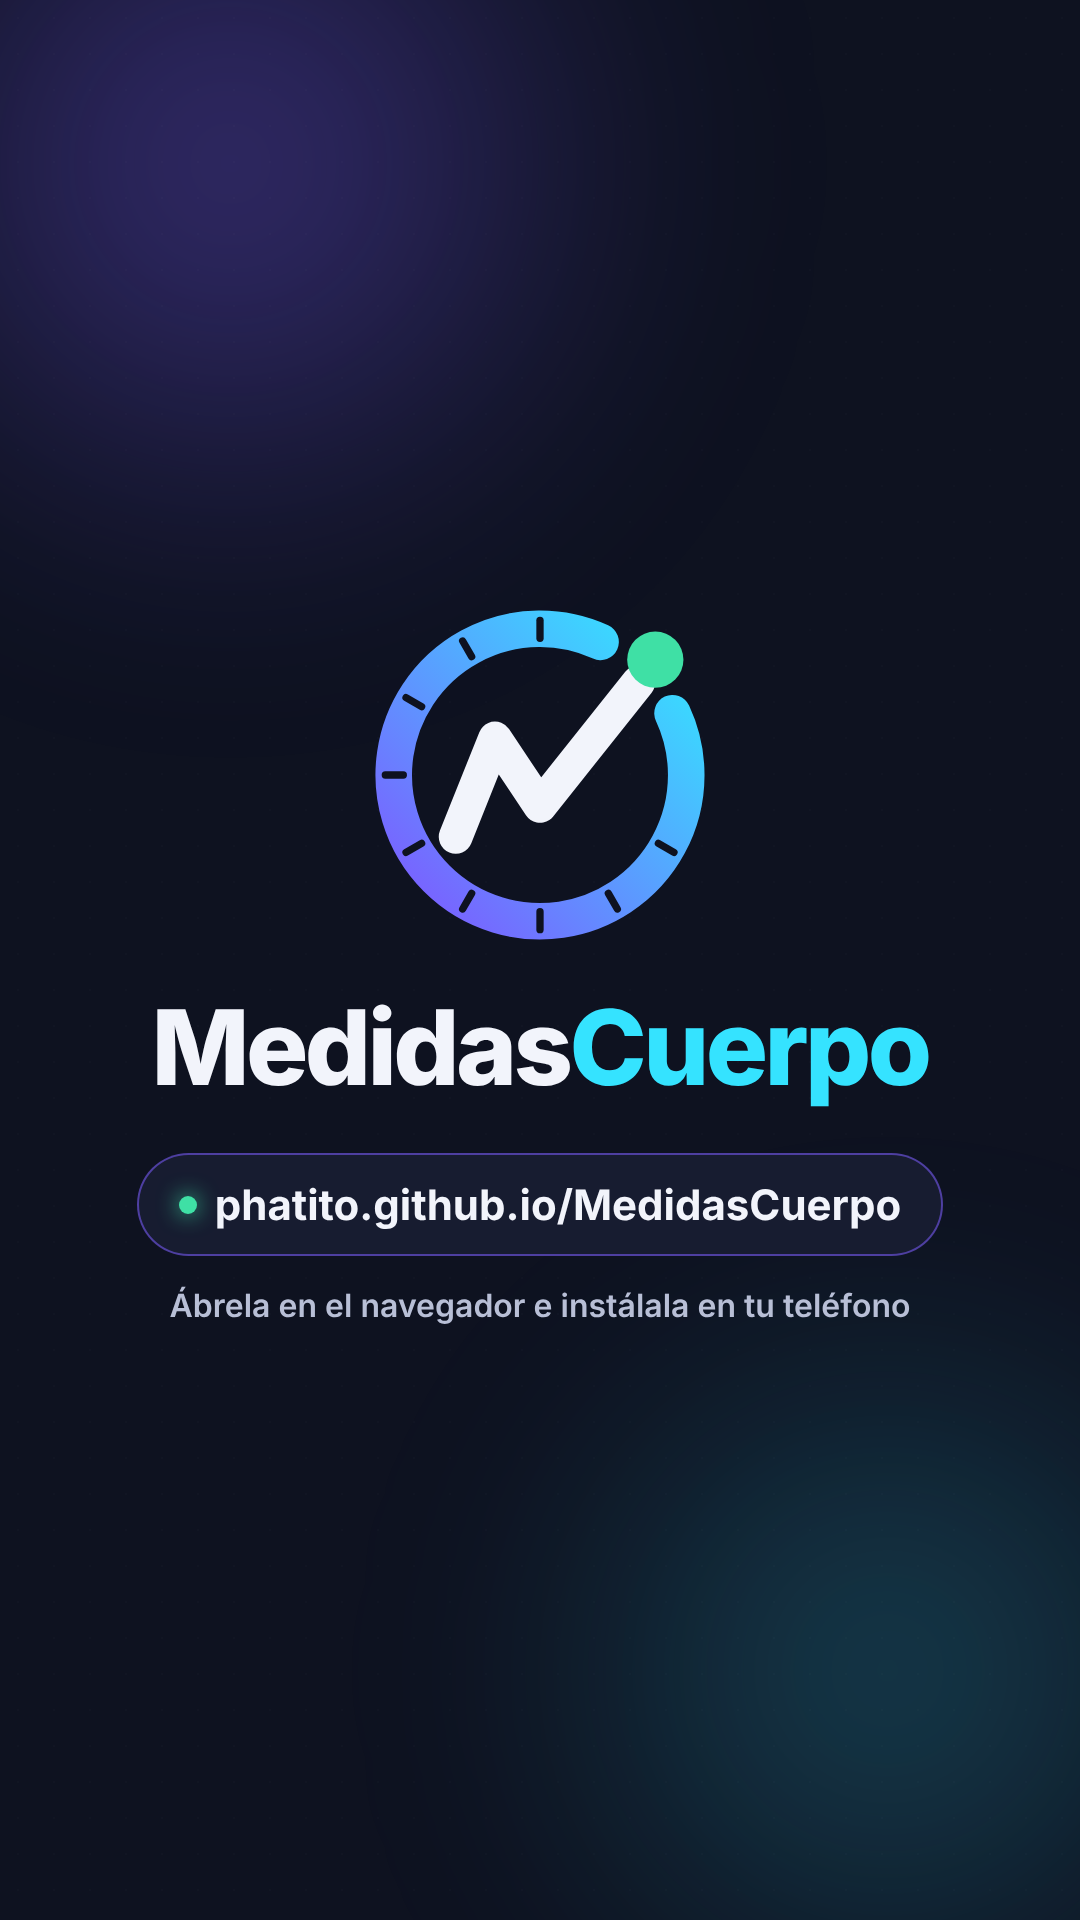
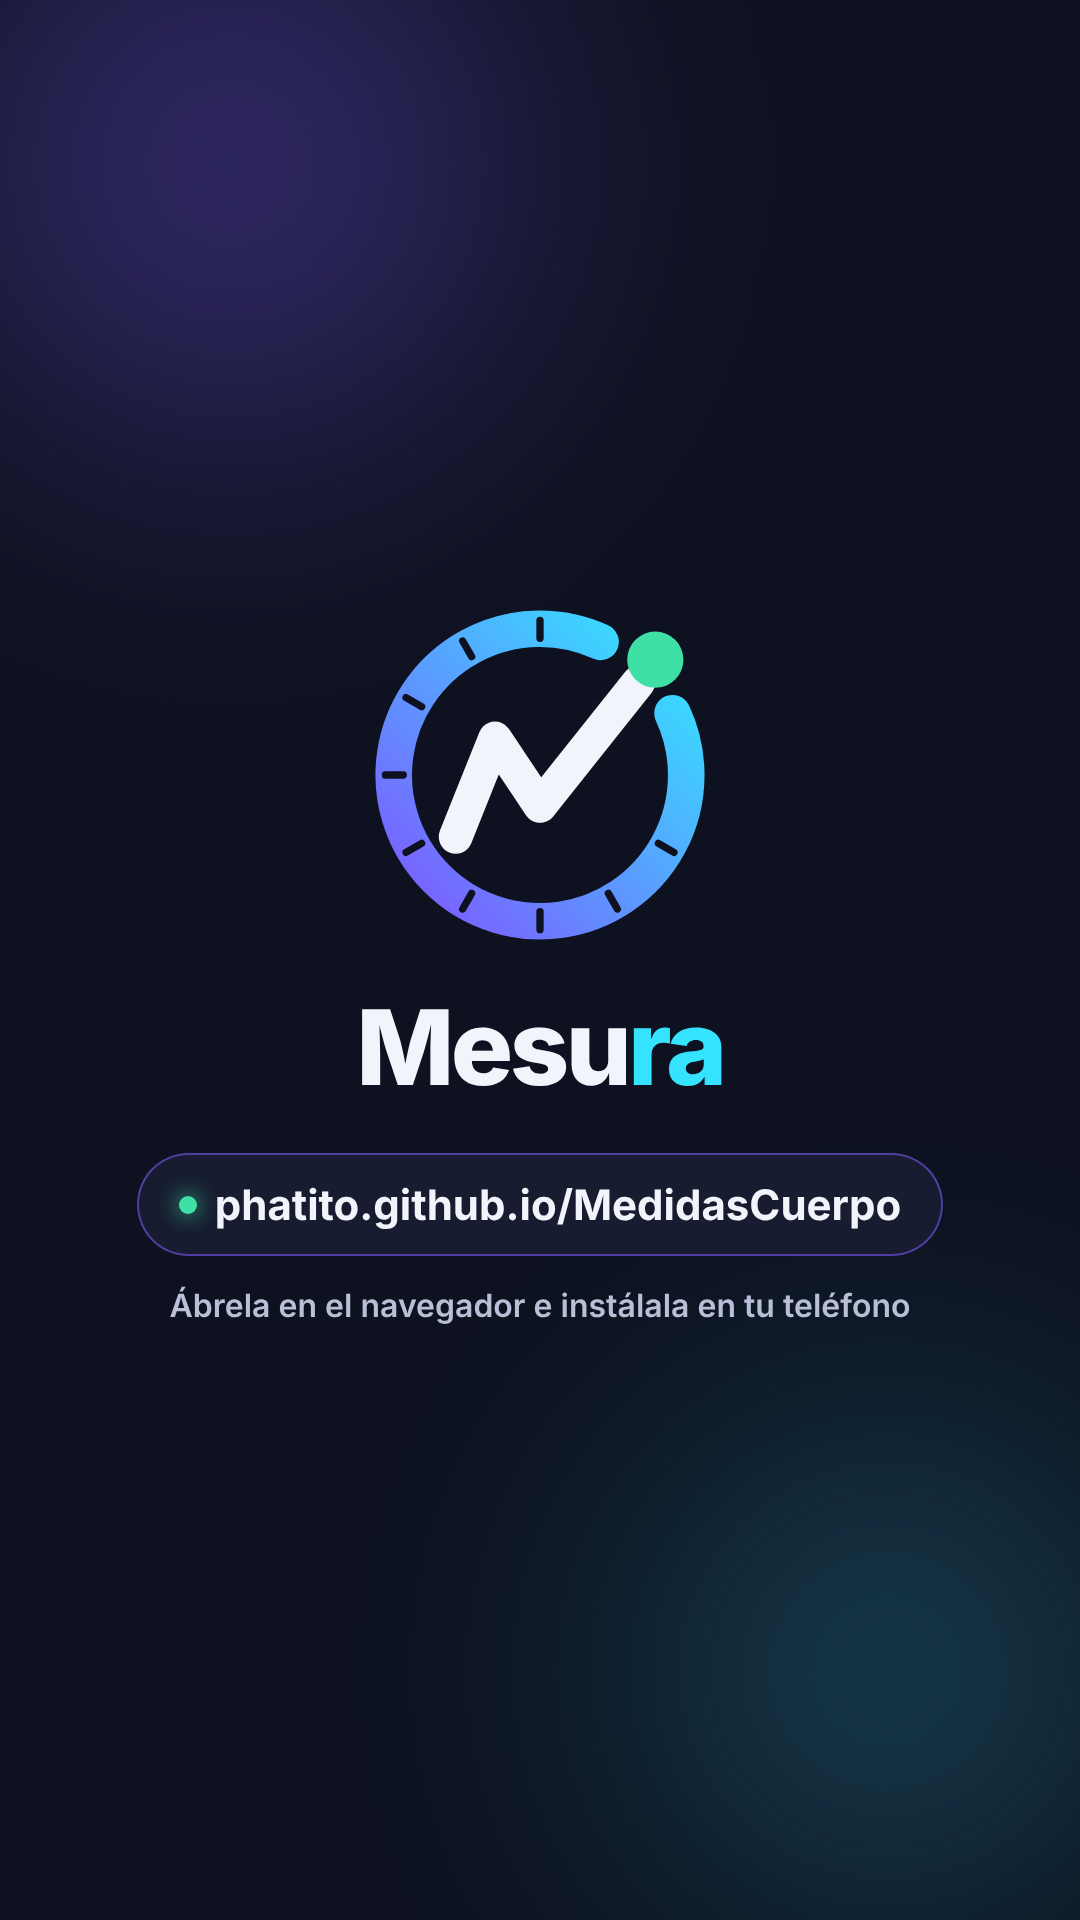
feat: rename the app to Mesura (name, wordmark, social image, promo text); internal ids unchanged so data and backups keep working
Claude-Session: https://claude.ai/code/session_012EEqaPiXpoG2BQwabH8a3s

Changed region(s): [[0.1222, 0.5, 0.8556, 0.5938]]

diff --git a/e2e/app.spec.ts b/e2e/app.spec.ts
@@ -175,13 +175,13 @@ test('respaldo: descargar, rechazar un archivo ajeno y restaurar', async ({ page
 
   await ir(page, 'Datos')
   const [descarga] = await Promise.all([page.waitForEvent('download'), page.getByRole('button', { name: 'Descargar respaldo' }).click()])
-  expect(descarga.suggestedFilename()).toMatch(/^medidascuerpo-\d{4}-\d{2}-\d{2}\.json$/)
+  expect(descarga.suggestedFilename()).toMatch(/^mesura-\d{4}-\d{2}-\d{2}\.json$/)
   const contenido = await readFile(await descarga.path(), 'utf8')
   expect(JSON.parse(contenido)).toMatchObject({ app: 'MedidasCuerpo', version: 1, personas: [{ nombre: 'Ana' }], mediciones: [{ pesoKg: 72.5 }] })
 
   // Un archivo que no es un respaldo se rechaza y no toca los datos.
   await page.getByLabel('Archivo de respaldo').setInputFiles({ name: 'otro.json', mimeType: 'application/json', buffer: Buffer.from('{"hola":1}') })
-  await expect(page.getByText('El archivo no es un respaldo de MedidasCuerpo')).toBeVisible()
+  await expect(page.getByText('El archivo no es un respaldo de Mesura')).toBeVisible()
   await ir(page, 'Familia')
   await expect(page.getByRole('heading', { name: 'Ana' })).toBeVisible()
   await expect(page.getByText('Todavía no has hecho un respaldo de tus datos.')).toBeHidden()
@@ -225,7 +225,7 @@ test('es instalable: tiene manifiesto y service worker', async ({ page, request 
   await page.goto('./')
   const manifiesto = await request.get('manifest.webmanifest')
   expect(manifiesto.ok()).toBe(true)
-  expect(await manifiesto.json()).toMatchObject({ name: 'MedidasCuerpo', display: 'standalone', start_url: '/MedidasCuerpo/' })
+  expect(await manifiesto.json()).toMatchObject({ name: 'Mesura', short_name: 'Mesura', display: 'standalone', start_url: '/MedidasCuerpo/' })
   await expect.poll(() => page.evaluate(async () => (await navigator.serviceWorker.getRegistration()) != null)).toBe(true)
 })
 
@@ -1092,4 +1092,22 @@ test('tras cancelar la confirmación se puede elegir el mismo archivo otra vez',
   page.once('dialog', (d) => void d.accept())
   await page.getByLabel('Elegir la captura de Xiaomi Home').setInputFiles(CAPTURA)
   await expect(page.getByText(LEIDA)).toBeVisible({ timeout: 90_000 })
+})
+
+// ---------- Nombre ----------
+
+test('la app se llama Mesura', async ({ page }) => {
+  await page.goto('./')
+  await expect(page).toHaveTitle(/Mesura/)
+  await expect(page.getByRole('button', { name: 'Mesura, ir al inicio' })).toBeVisible()
+  await expect(page.locator('meta[property="og:title"]')).toHaveAttribute('content', 'Mesura')
+})
+
+test('un respaldo hecho antes del cambio de nombre se sigue restaurando', async ({ page }) => {
+  await agregarAna(page)
+  await ir(page, 'Datos')
+  const viejo = { app: 'MedidasCuerpo', version: 1, exportadoEn: '2026-11-01T00:00:00.000Z', personas: [{ id: 'v1', nombre: 'Vieja', sexo: 'mujer', fechaNacimiento: '', estaturaCm: 160, objetivo: 'mantener', creadaEn: '2026-01-01T00:00:00.000Z' }], mediciones: [], ajustes: { diaRecordatorio: 1, horaRecordatorio: '09:00' } }
+  await page.getByLabel('Archivo de respaldo').setInputFiles({ name: 'medidascuerpo-2026-11-01.json', mimeType: 'application/json', buffer: Buffer.from(JSON.stringify(viejo)) })
+  await page.getByRole('button', { name: 'Sí, restaurar' }).click()
+  await expect(page.getByText('Respaldo restaurado.')).toBeVisible()
 })

diff --git a/marketing/promo.html b/marketing/promo.html
@@ -2,10 +2,10 @@
 <html lang="es">
 <head>
 <meta charset="utf-8">
-<title>MedidasCuerpo · Promo</title>
+<title>Mesura · Promo</title>
 <meta name="viewport" content="width=device-width, initial-scale=1">
 <!--
-  Video promocional de MedidasCuerpo.
+  Video promocional de Mesura.
   - Ábrelo en el navegador: se reproduce solo (28 s, en bucle).
   - Parámetros: ?f=v (1080×1920, vertical) | ?f=h (1920×1080, horizontal) | ?f=og (1200×630, imagen social)
                 &t=12.5 congela la animación en ese segundo.
@@ -145,13 +145,13 @@ body { font-family: 'Plus Jakarta Sans', system-ui, sans-serif; color: var(--tex
 
   <div id="bug">
     <svg viewBox="0 0 64 64"><use href="#markSym"/></svg>
-    <span>Medidas<b>Cuerpo</b></span>
+    <span>Mesu<b>ra</b></span>
   </div>
 
   <!-- 1 · Logo -->
   <section class="scene logo-scene" id="s1">
     <svg class="bigmark" viewBox="0 0 64 64" id="m1"></svg>
-    <div class="wordmark" id="wm1">Medidas<b>Cuerpo</b></div>
+    <div class="wordmark" id="wm1">Mesu<b>ra</b></div>
     <div class="tagline" id="tg1">Peso, composición y medidas para toda la familia</div>
   </section>
 
@@ -227,7 +227,7 @@ body { font-family: 'Plus Jakarta Sans', system-ui, sans-serif; color: var(--tex
   <!-- 7 · Cierre -->
   <section class="scene logo-scene" id="s7">
     <svg class="bigmark" viewBox="0 0 64 64" id="m7"></svg>
-    <div class="wordmark" id="wm7">Medidas<b>Cuerpo</b></div>
+    <div class="wordmark" id="wm7">Mesu<b>ra</b></div>
     <div class="url" id="url7"><i></i>phatito.github.io/MedidasCuerpo</div>
     <div class="cta" id="cta7">Ábrela en el navegador e instálala en tu teléfono</div>
   </section>
@@ -570,7 +570,7 @@ if (FMT === 'og') {
   og.className = 'scene'; og.style.cssText = 'opacity:1;padding:70px 80px;align-items:center;gap:56px;flex-direction:row';
   og.innerHTML = `<div style="flex:1">
       <div style="display:flex;align-items:center;gap:22px"><svg viewBox="0 0 64 64" style="width:92px;height:92px"><use href="#markSym"/></svg>
-      <div style="font-weight:800;font-size:58px;letter-spacing:-.035em">Medidas<b style="color:#35e3ff;font-weight:800">Cuerpo</b></div></div>
+      <div style="font-weight:800;font-size:58px;letter-spacing:-.035em">Mesu<b style="color:#35e3ff;font-weight:800">ra</b></div></div>
       <div style="font-weight:800;font-size:62px;letter-spacing:-.03em;line-height:1.04;margin-top:44px">Tu cuerpo,<br><span class="hl" style="background:linear-gradient(90deg,#9d85ff,#35e3ff);-webkit-background-clip:text;background-clip:text;color:transparent">semana a semana</span></div>
       <div style="color:#b8bfd6;font-size:28px;font-weight:500;margin-top:24px;line-height:1.38;max-width:600px;text-wrap:pretty">Peso, composición corporal y medidas para toda la familia. Tus datos, solo en tu dispositivo.</div>
     </div>`;

diff --git a/index.html b/index.html
@@ -9,14 +9,14 @@
     <link rel="apple-touch-icon" href="%BASE_URL%apple-touch-icon.png" />
     <meta name="description" content="Peso de tendencia, composición corporal y medidas para toda la familia. Tus datos, solo en tu dispositivo." />
     <meta property="og:type" content="website" />
-    <meta property="og:title" content="MedidasCuerpo" />
+    <meta property="og:title" content="Mesura" />
     <meta property="og:description" content="Peso de tendencia, composición corporal y medidas para toda la familia. Tus datos, solo en tu dispositivo." />
     <meta property="og:url" content="https://phatito.github.io/MedidasCuerpo/" />
     <meta property="og:image" content="https://phatito.github.io/MedidasCuerpo/og-image.png" />
     <meta property="og:image:width" content="1200" />
     <meta property="og:image:height" content="630" />
     <meta name="twitter:card" content="summary_large_image" />
-    <title>MedidasCuerpo</title>
+    <title>Mesura</title>
   </head>
   <body>
     <div id="root"></div>

diff --git a/src/ui/App.tsx b/src/ui/App.tsx
@@ -83,7 +83,7 @@ export function App() {
         if (++intentos < 60) marco = requestAnimationFrame(buscar)
         return
       }
-      document.title = `${h2.textContent} · MedidasCuerpo`
+      document.title = `${h2.textContent} · Mesura`
       if (enfocar) {
         h2.setAttribute('tabindex', '-1')
         h2.focus()
@@ -122,9 +122,9 @@ export function App() {
     <>
       <header className="top">
         <div className="wrap">
-          <button type="button" className="brand" onClick={() => navegar(alInicio)} aria-label="MedidasCuerpo, ir al inicio">
+          <button type="button" className="brand" onClick={() => navegar(alInicio)} aria-label="Mesura, ir al inicio">
             <img src={`${import.meta.env.BASE_URL}logo.svg`} alt="" />
-            <span className="brand-nombre">MedidasCuerpo</span>
+            <span className="brand-nombre">Mesura</span>
           </button>
           {personas && personas.length > 0 && (
             <SelectorPerfil

diff --git a/src/domain/reminders.ts b/src/domain/reminders.ts
@@ -19,16 +19,16 @@ export function generarIcs(dia: number, hora: string, desde: string): string {
   const lineas = [
     'BEGIN:VCALENDAR',
     'VERSION:2.0',
-    'PRODID:-//MedidasCuerpo//ES',
+    'PRODID:-//Mesura//ES',
     'CALSCALE:GREGORIAN',
     'BEGIN:VEVENT',
-    `UID:medidascuerpo-recordatorio-${fecha}-${dia}@medidascuerpo`,
+    `UID:mesura-recordatorio-${fecha}-${dia}@mesura`,
     `DTSTAMP:${desde.replace(/-/g, '')}T000000Z`,
     `DTSTART:${fecha}T${hh}${mm}00`,
     'DURATION:PT15M',
     `RRULE:FREQ=WEEKLY;BYDAY=${DIAS_ICS[dia]}`,
     'SUMMARY:Pesarse y medirse',
-    'DESCRIPTION:Registra el peso y las medidas de la semana en MedidasCuerpo.',
+    'DESCRIPTION:Registra el peso y las medidas de la semana en Mesura.',
     'BEGIN:VALARM',
     'ACTION:DISPLAY',
     'DESCRIPTION:Pesarse y medirse',

diff --git a/src/ui/Datos.tsx b/src/ui/Datos.tsx
@@ -33,7 +33,7 @@ export function Datos({ personas, personaActual }: Props) {
 
   async function descargarRespaldo() {
     const respaldo = await exportarRespaldo()
-    descargar(`medidascuerpo-${hoyIso()}.json`, JSON.stringify(respaldo, null, 2), 'application/json')
+    descargar(`mesura-${hoyIso()}.json`, JSON.stringify(respaldo, null, 2), 'application/json')
     await guardarAjustes({ ...(await leerAjustes()), ultimoRespaldo: hoyIso() })
     setAvisoRespaldo({ tipo: 'ok', texto: 'Respaldo descargado. Guárdalo fuera de este computador, por ejemplo en un pendrive o en tu nube.' })
   }

diff --git a/vite.config.ts b/vite.config.ts
@@ -25,8 +25,8 @@ export default defineConfig({
         runtimeCaching: [{ urlPattern: ({ url }) => url.pathname.includes('/ocr/'), handler: 'CacheFirst', options: { cacheName: `lector-ocr-${VERSION_LECTOR}` } }],
       },
       manifest: {
-        name: 'MedidasCuerpo',
-        short_name: 'Medidas',
+        name: 'Mesura',
+        short_name: 'Mesura',
         description: 'Control semanal de peso y medidas corporales de la familia',
         lang: 'es',
         display: 'standalone',

diff --git a/tests/storage/backup.test.ts b/tests/storage/backup.test.ts
@@ -4,7 +4,7 @@ import { exportarRespaldo, leerRespaldo, restaurarRespaldo } from '../../src/sto
 import { borrarTodo, guardarAjustes, guardarMediciones, guardarPersona, leerAjustes, listarMediciones, listarPersonas } from '../../src/storage/db'
 import { m, persona } from '../domain/helpers'
 
-const MENSAJE = 'El archivo no es un respaldo de MedidasCuerpo'
+const MENSAJE = 'El archivo no es un respaldo de Mesura'
 
 beforeEach(async () => {
   await borrarTodo()

diff --git a/src/storage/backup.ts b/src/storage/backup.ts
@@ -12,7 +12,8 @@ export interface Respaldo {
   ajustes: Ajustes
 }
 
-const MENSAJE_INVALIDO = 'El archivo no es un respaldo de MedidasCuerpo'
+// La app se llamaba MedidasCuerpo: ese identificador interno del archivo de respaldo se conserva para que los respaldos de antes y de ahora sean compatibles.
+const MENSAJE_INVALIDO = 'El archivo no es un respaldo de Mesura'
 
 export async function exportarRespaldo(): Promise<Respaldo> {
   return {

diff --git a/tests/domain/reminders.test.ts b/tests/domain/reminders.test.ts
@@ -29,3 +29,9 @@ describe('generarIcs', () => {
     expect(ics.replace(/\r\n/g, '')).not.toContain('\n')
   })
 })
+
+test('el evento del calendario lleva el nombre Mesura', () => {
+  const ics = generarIcs(1, '09:00', '2026-11-23')
+  expect(ics).toContain('Mesura')
+  expect(ics).not.toContain('MedidasCuerpo')
+})

diff --git a/marketing/README.md b/marketing/README.md
@@ -1,11 +1,11 @@
-# Marca y promo de MedidasCuerpo
+# Marca y promo de Mesura
 
 ## Archivos
 
 | Archivo | Qué es |
 |---|---|
 | `public/logo.svg` | Marca (símbolo) cuadrada, fondo transparente. Para fondos oscuros. |
-| `public/logo-horizontal.svg` | Marca + palabra "MedidasCuerpo" (texto convertido a trazos), para encabezados. |
+| `public/logo-horizontal.svg` | Marca + palabra "Mesura" en Plus Jakarta Sans ExtraBold convertida a trazos, con un degradado de blanco a cian al final; para encabezados. |
 | `public/favicon.svg` | Marca simplificada (sin marcas de cinta) sobre baldosa #0e1220, para la pestaña del navegador. |
 | `public/icon-192.png`, `public/icon-512.png` | Íconos de la app (PWA). Fondo a sangre completa, marca dentro del 80 % central: valen como `maskable`. |
 | `public/apple-touch-icon.png` | Ícono 180×180 para iPhone/iPad, sin transparencia. |

diff --git a/README.md b/README.md
@@ -1,4 +1,7 @@
-# MedidasCuerpo
+# Mesura
+
+*Tu cuerpo, semana a semana.* (Antes se llamaba MedidasCuerpo; la dirección
+web sigue siendo la misma y los datos y respaldos de antes siguen funcionando.)
 
 Control semanal de peso, composición corporal y perímetros para ti y tu familia.
 Registra las mediciones de cada persona y la app explica en lenguaje claro qué
@@ -11,7 +14,7 @@ pérdida de grasa con músculo mantenido o ganado).
 
 1. Abre la dirección de arriba en Chrome o Edge.
 2. Haz clic en el ícono de instalar que aparece en la barra de direcciones
-   (o menú ⋮ → "Instalar MedidasCuerpo").
+   (o menú ⋮ → "Instalar Mesura").
 3. Queda con ícono y ventana propia, y funciona sin conexión.
 
 ## Dónde están tus datos
